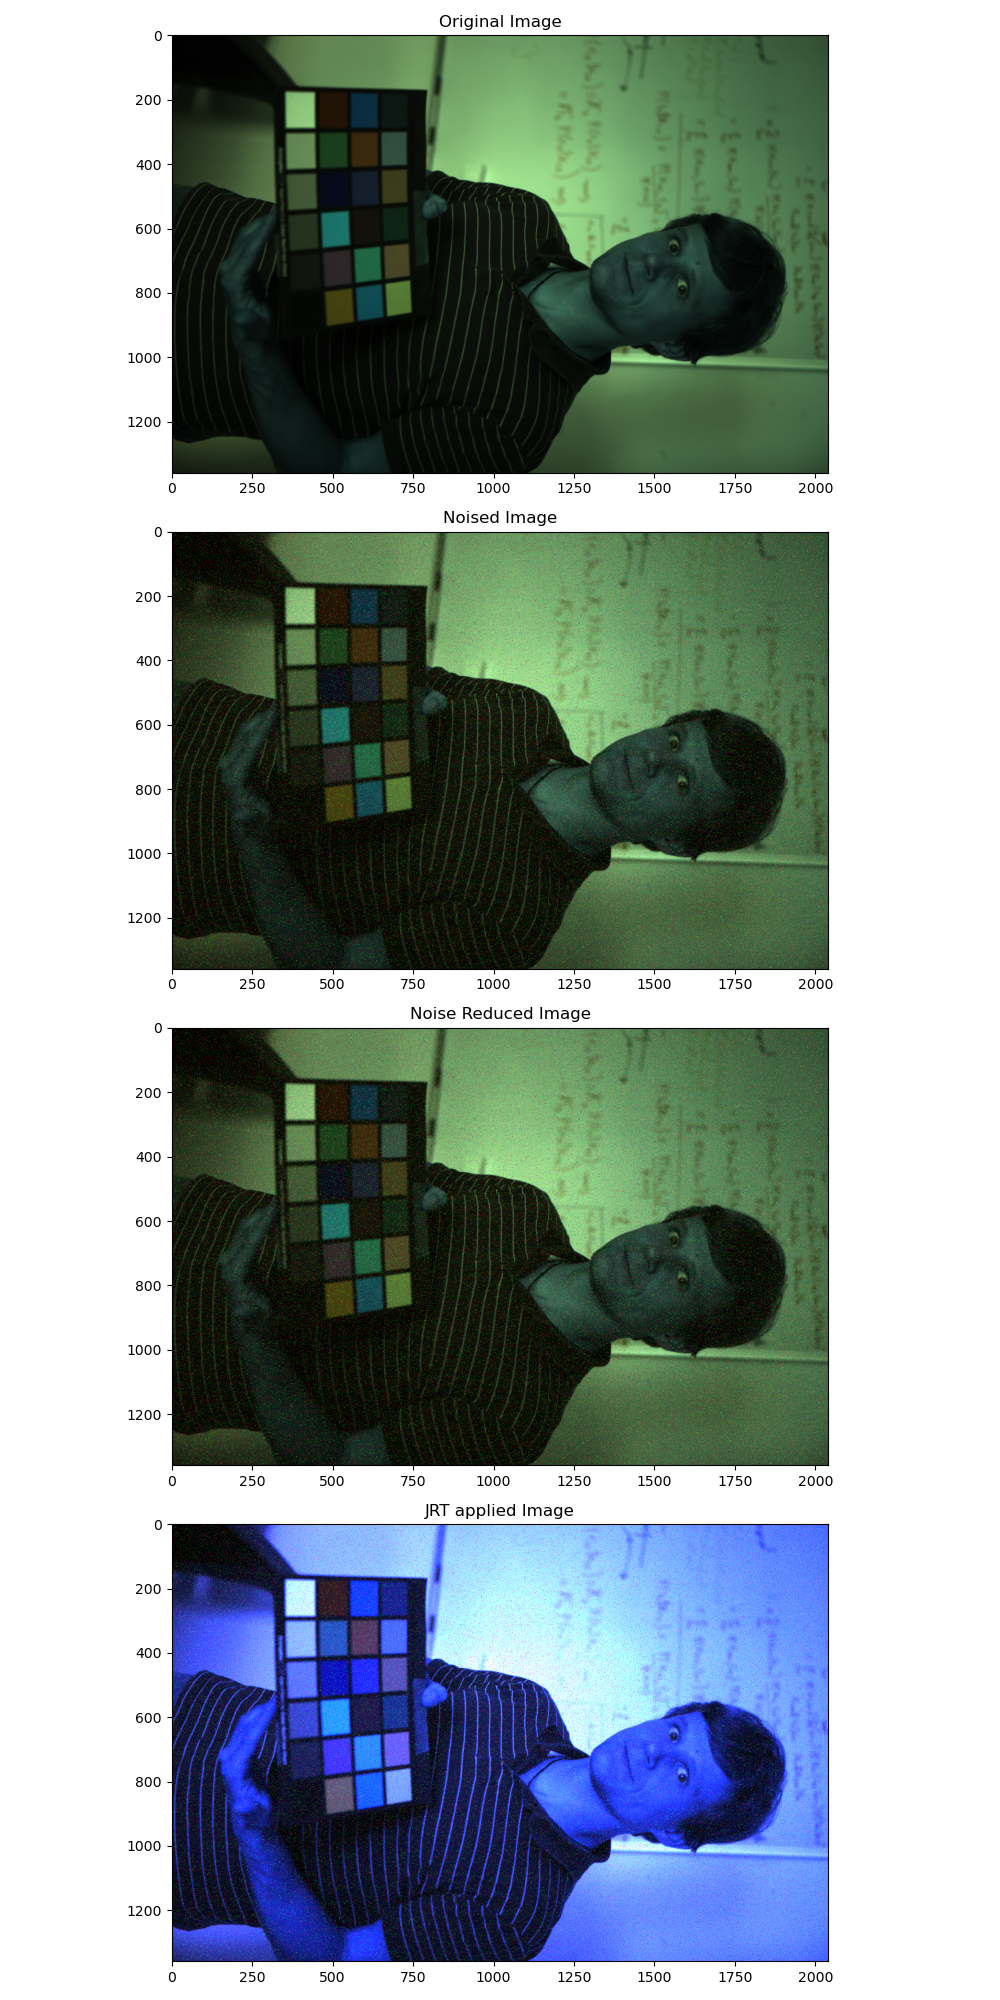
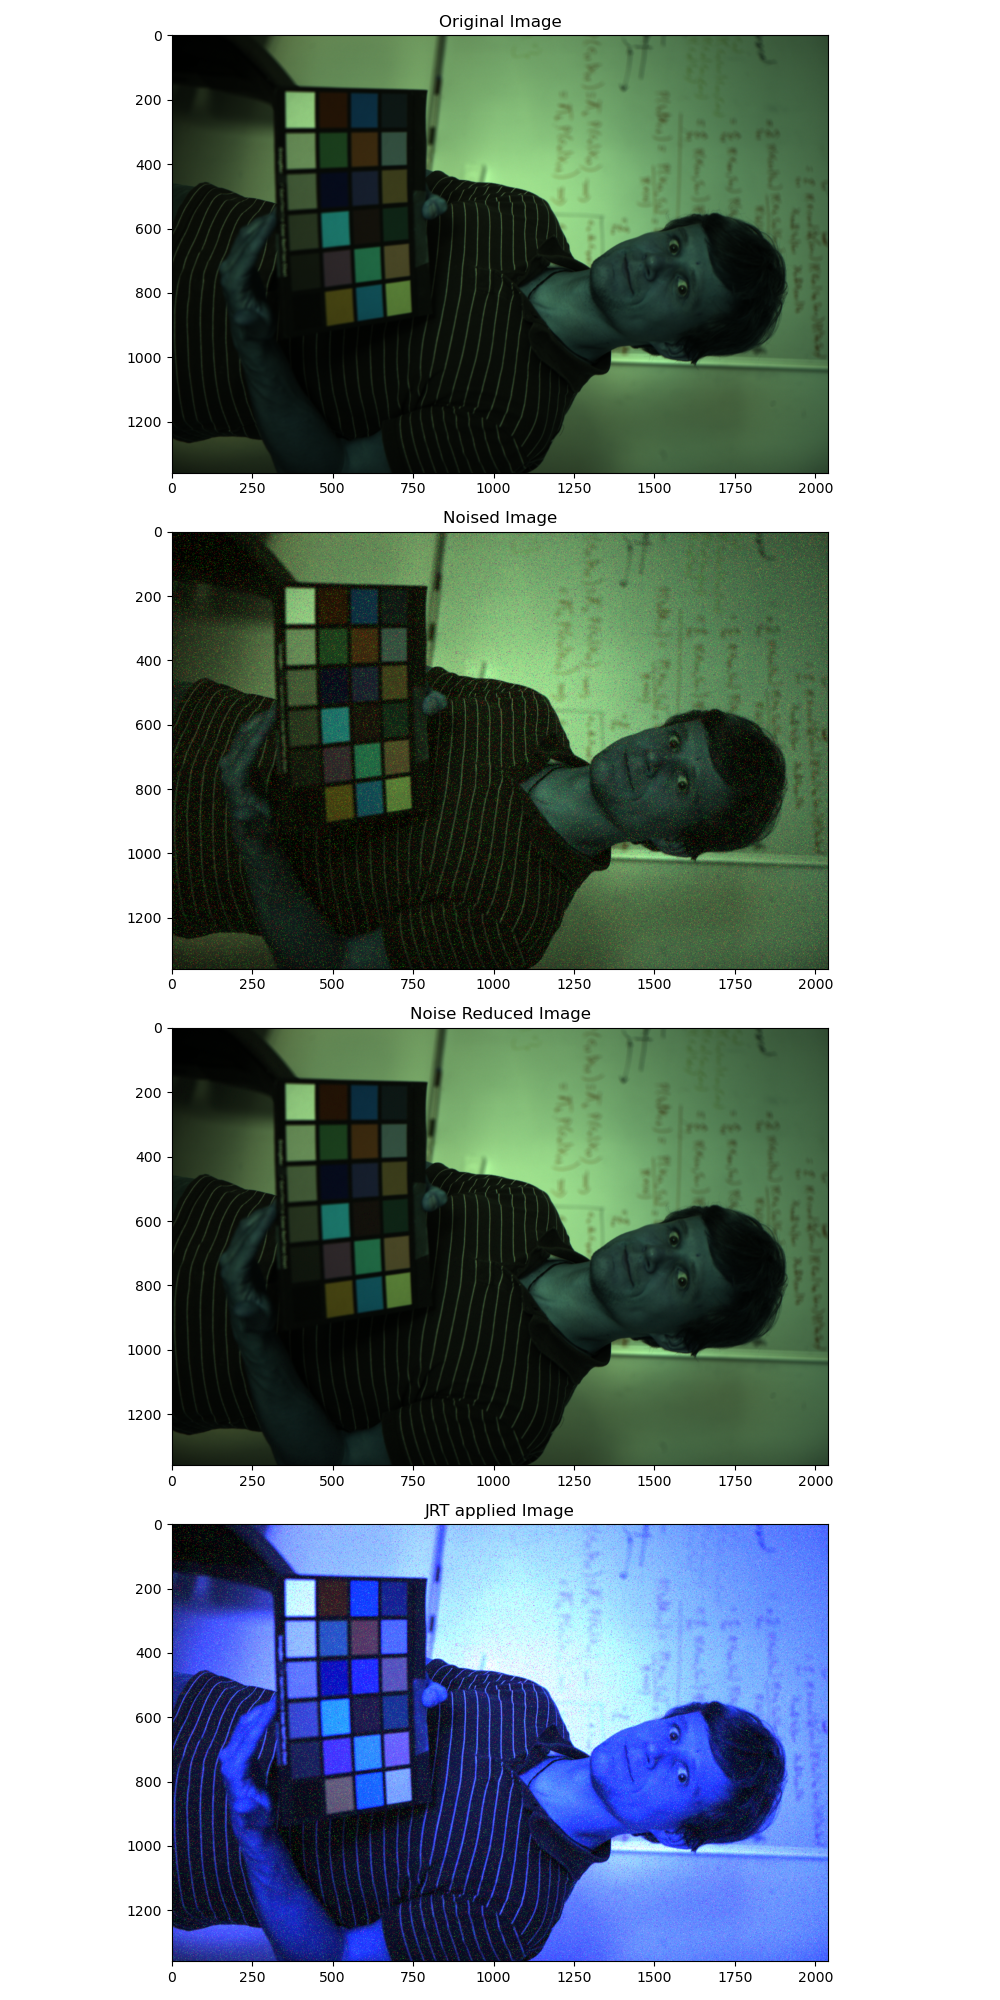
2020.09.16 10:00 RESPD is needed to be optimized... Done Add Noise function was optimized... Done Read Image Validation... ing Additional Optimizing... ing

diff --git a/CIS_Processing.py b/CIS_Processing.py
@@ -218,7 +218,7 @@ def hw_RSEPD_fast(input_image = None, Ts = 20):
 
     return denoised_image
 
-def hw_RSEPD_fast_Rev(input_image = None, Ts = 20):
+def hw_RSEPD_fast_Prev(input_image = None, Ts = 20):
     start_time = time.time()
     num_pad = 1
     # denoised_image = np.zeros(input_image.shape,)
@@ -227,8 +227,7 @@ def hw_RSEPD_fast_Rev(input_image = None, Ts = 20):
     # padIm = np.pad(input_image, ([1, 1], [1, 1], [0, 0]), 'symmetric')
     padIm = np.pad(input_image, [num_pad, num_pad], 'symmetric')
     padIm = padIm.astype(np.float64)
-    rowsize = padIm.shape[0]
-    colsize = padIm.shape[1]
+    rowsize, colsize = padIm.shape
     row_buffer = np.zeros((colsize,), dtype = np.float64)
 
     padIm = padIm.flatten()
@@ -236,14 +235,13 @@ def hw_RSEPD_fast_Rev(input_image = None, Ts = 20):
     MINinW = 0.
     MAXinW = 255.
 
-    index_MINinW = np.where(padIm == MINinW)[0]
-    index_MAXinW = np.where(padIm == MAXinW)[0]
+    # index_MINinW = np.where(padIm == MINinW)[0]
+    # index_MAXinW = np.where(padIm == MAXinW)[0]
 
     for i in range((colsize + 1), ((rowsize - 1) * colsize), 1):
 
         ## Extreme Data Detector
         (x, y) = ((i % colsize), (i // colsize))
-        # print("Current index : [%d] // [%d] [%d]" %(i, x, y))
 
         # continue loop at padded pixels
         if ((y == 0) or (y == (rowsize - 1)) or (x == 0) or (x == (colsize - 1))):
@@ -257,8 +255,6 @@ def hw_RSEPD_fast_Rev(input_image = None, Ts = 20):
 
         pi = 0
         f_bar = 0
-        # flag1 = (padIm[i] == MINinW)
-        # flag2 = (padIm[i] == MAXinW)
 
         if ((padIm[i] == MINinW) or (padIm[i] == MAXinW)):
             pi = 1
@@ -270,15 +266,12 @@ def hw_RSEPD_fast_Rev(input_image = None, Ts = 20):
             b = 0
 
             if ((padIm[i + colsize] == MINinW) or (padIm[i + colsize] == MAXinW)):
-                b = 1
-
-                if (b == 1):
-                    if ((padIm[i - colsize -1] == MINinW) and (padIm[i - colsize] == MINinW) or (padIm[i - colsize + 1] == MINinW)):
-                        f_hat = MINinW
-                    elif ((padIm[i - colsize -1] == MAXinW) and (padIm[i - colsize] == MAXinW) or (padIm[i - colsize + 1] == MAXinW)):
-                        f_hat = MAXinW
-                    else:
-                        f_hat = ((padIm[i - colsize - 1]) + 2 * (padIm[i - colsize]) + (padIm[i - colsize + 1])) / 4
+                if ((padIm[i - colsize -1] == MINinW) and (padIm[i - colsize] == MINinW) or (padIm[i - colsize + 1] == MINinW)):
+                    f_hat = MINinW
+                elif ((padIm[i - colsize -1] == MAXinW) and (padIm[i - colsize] == MAXinW) or (padIm[i - colsize + 1] == MAXinW)):
+                    f_hat = MAXinW
+                else:
+                    f_hat = ((padIm[i - colsize - 1]) + 2 * (padIm[i - colsize]) + (padIm[i - colsize + 1])) / 4
 
             else:
                 Da = abs(padIm[i - colsize - 1] - padIm[i + colsize])

diff --git a/CIS_main.py b/CIS_main.py
@@ -60,9 +60,9 @@ for nr in range(numNoise):
         # image_NR[:, :, 1] = hw_RSEPD(image_noise[0][:, :, 1], 20)
         # image_NR[:, :, 2] = hw_RSEPD(image_noise[0][:, :, 2], 20)
 
-        image_NR[:, :, 0] = hw_RSEPD_fast(image_noise[:, :, 0], 20)
-        image_NR[:, :, 1] = hw_RSEPD_fast(image_noise[:, :, 1], 20)
-        image_NR[:, :, 2] = hw_RSEPD_fast(image_noise[:, :, 2], 20)
+        image_NR[:, :, 0] = hw_RSEPD_fast_Prev(image_noise[:, :, 0], 20)
+        image_NR[:, :, 1] = hw_RSEPD_fast_Prev(image_noise[:, :, 1], 20)
+        image_NR[:, :, 2] = hw_RSEPD_fast_Prev(image_noise[:, :, 2], 20)
 
         plt.subplot(4,1,3)
         plt.title("Noise Reduced Image")
